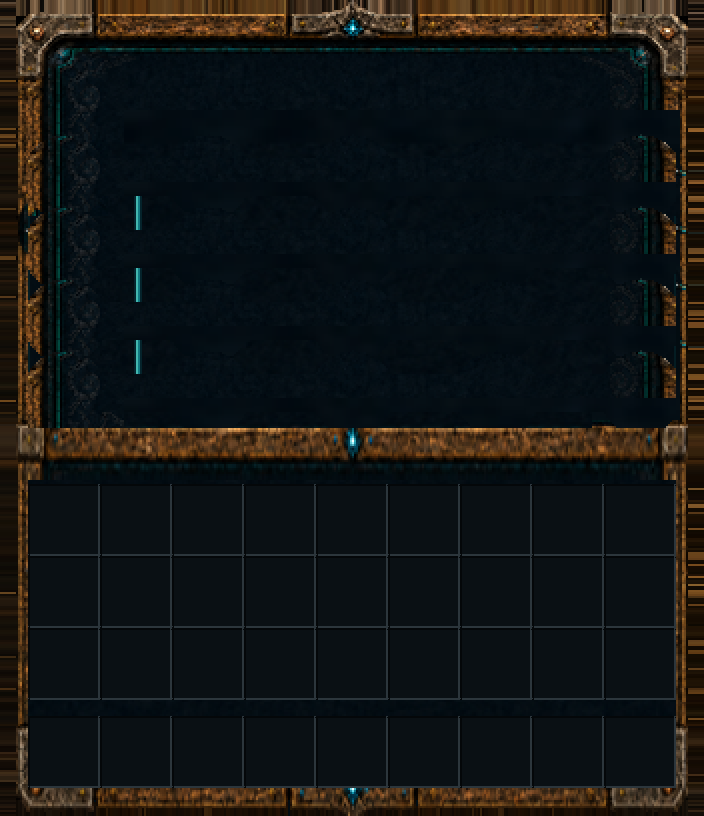
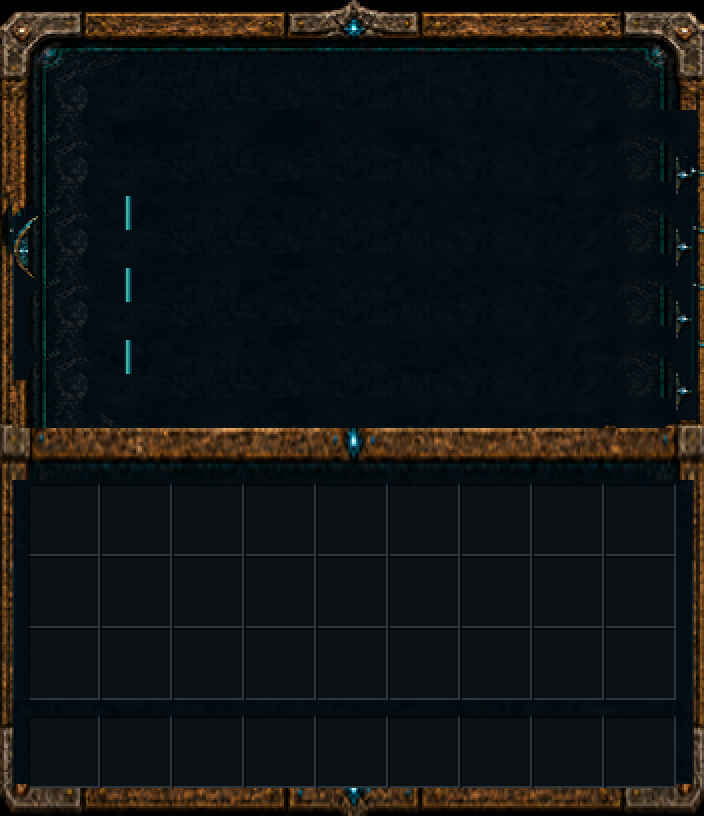
트리 배경: 좌우 여백은 가로 스트레치로, 소켓 삭제는 패널 경계 clamp
① 창 폭 안 맞음 — 원본 프레임이 좌 8px / 우 9px(2배) 안쪽이라 176 GUI px 창에서 8px가 남았다.
   시도해보고 버린 것(전부 육안+측정으로 확인):
     · 투명       → 바닐라 generic_54(밝은 회색)가 글리프 **아래** 깔려 흰 띠가 비친다
     · 엣지 클램프 → 프레임 바깥 경계가 세로로 불규칙해 **가로 줄무늬(바코드)**
     · 미러링     → 모서리 리벳이 두 개로 복제된다
   → 여백 crop + **가로만 5% 스트레치**. 세로 무손상이라 구분 밴드·인벤 행 정렬 그대로,
     가로 이동은 가장자리에서 최대 4 GUI px. 프레임이 원본과 거의 동일하게 나온다.
   남는 검정은 둥근 모서리 4곳뿐(≈29px² 각) — 아트가 원래 그런 모양이라 그대로 둔다.

② 소켓 삭제 반경 21이 칸 반폭 18보다 커서 경계를 넘었다: row4가 구분 밴드 위쪽을 파먹어
   밴드 상단이 톱니가 됐고 col0이 좌측 프레임을 침범했다 → 패널 안쪽만 지우도록 clamp.
   검증: 구분 밴드 원본 대비 최대 채널차 0.

diff --git a/gui-forge/build_skilltree_bg.py b/gui-forge/build_skilltree_bg.py
@@ -137,6 +137,18 @@ def main():
     if art.size != (GW * 2, GH * 2):
         raise SystemExit(f"원본 아트가 2배(352x408)가 아님: {art.size}")
 
+    # ⓞ 좌우 검은 여백 제거 — **가로로만 늘려** 프레임을 창 폭에 맞춘다.
+    #   측정: 원본 프레임이 좌 8px / 우 9px(2배) 안쪽에 있다. 창은 176 GUI px인데 프레임이
+    #   168px만 덮으니 나머지가 남는다. 시도해보고 버린 것:
+    #     · 투명 → 바닐라 generic_54(밝은 회색)가 글리프 **아래** 깔려 흰 띠가 비친다
+    #     · 엣지 클램프(행마다 최근접 픽셀) → 프레임 바깥 경계가 세로로 불규칙해 **가로 줄무늬**
+    #     · 미러링 → 모서리 리벳이 두 개로 복제된다
+    #   → 여백을 crop하고 가로만 5% 늘린다. 세로는 손대지 않으니 구분 밴드·인벤 행 정렬이
+    #     그대로고, 가로 이동은 가장자리에서 최대 4 GUI px라 눈에 안 띈다.
+    ML, MR = 8, 9                                  # 측정된 좌/우 여백 (2배)
+    art = art.crop((ML, 0, art.width - MR, art.height)).resize(
+        (GW * 2, GH * 2), Image.LANCZOS)
+
     # ① 노드 소켓·연결선만 **국소 삭제**한다 (2배 좌표)
     #   ★row0 밴드를 통째로 스탬프하는 방식은 실패했다(2회): 원본의 패널 테두리·프레임 석재는
     #     세로로 불규칙해서 4번 찍으면 테두리가 점선이 되고 석재 캡이 반복된다.
@@ -169,50 +181,7 @@ def main():
     # ② 정수배 확대 (원본 2배 → SCALE배)
     im = art.resize((W, H), Image.NEAREST) if SCALE != 2 else art
 
-    # ③ 창 가장자리의 검은 여백을 프레임으로 메운다 (**엣지 클램프**)
-    #   측정: 원본 프레임이 좌 8px / 우 9px(2배) 안쪽으로 들어가 있고 모서리는 둥글다.
-    #   창은 176 GUI px인데 프레임이 168px만 덮으니 나머지가 검정으로 남는다.
-    #   ★투명으로 만들면 안 된다 — 상자 GUI는 바닐라 generic_54(밝은 회색)가 글리프 **아래**
-    #     깔려 있어 투명 자리에 흰 띠가 비쳐 나온다(실제로 그렇게 터졌다).
-    #   ★가로로 늘리는 것도 안 된다 — 슬롯 격자와 프레임 두께가 어긋난다.
-    #   → 바깥 띠(MARGIN) 안에서만, 같은 행/열의 가장 가까운 프레임 픽셀을 끌어와 채운다.
-    #     프레임 바깥쪽 마감이 몇 px 늘어나는 것뿐이라 나뭇결·석재에선 보이지 않는다.
-    im = im.convert("RGBA")
-    px = im.load()
-    W_, H_ = im.size
-    MARGIN = 8 * SCALE // 2                        # 원본 여백(2배 9px)보다 넉넉히
-    def is_dark(x, y):
-        return sum(px[x, y][:3]) <= 24
-    for y in range(H_):                            # 1차: 가로 클램프 (좌우 여백)
-        for x in range(MARGIN):
-            if is_dark(x, y):
-                sx = x
-                while sx < W_ and is_dark(sx, y):
-                    sx += 1
-                if sx < W_:
-                    px[x, y] = px[sx, y]
-        for x in range(W_ - 1, W_ - MARGIN - 1, -1):
-            if is_dark(x, y):
-                sx = x
-                while sx >= 0 and is_dark(sx, y):
-                    sx -= 1
-                if sx >= 0:
-                    px[x, y] = px[sx, y]
-    for x in range(W_):                            # 2차: 세로 클램프 (남은 모서리)
-        for y in range(MARGIN):
-            if is_dark(x, y):
-                sy = y
-                while sy < H_ and is_dark(x, sy):
-                    sy += 1
-                if sy < H_:
-                    px[x, y] = px[x, sy]
-        for y in range(H_ - 1, H_ - MARGIN - 1, -1):
-            if is_dark(x, y):
-                sy = y
-                while sy >= 0 and is_dark(x, sy):
-                    sy -= 1
-                if sy >= 0:
-                    px[x, y] = px[x, sy]
+    # ③ (여백 처리는 ①보다 앞에서 이미 끝났다 — 아래 주석 참조)
 
     # ④ 플레이어 인벤 36칸 음각
     px = im.load()
